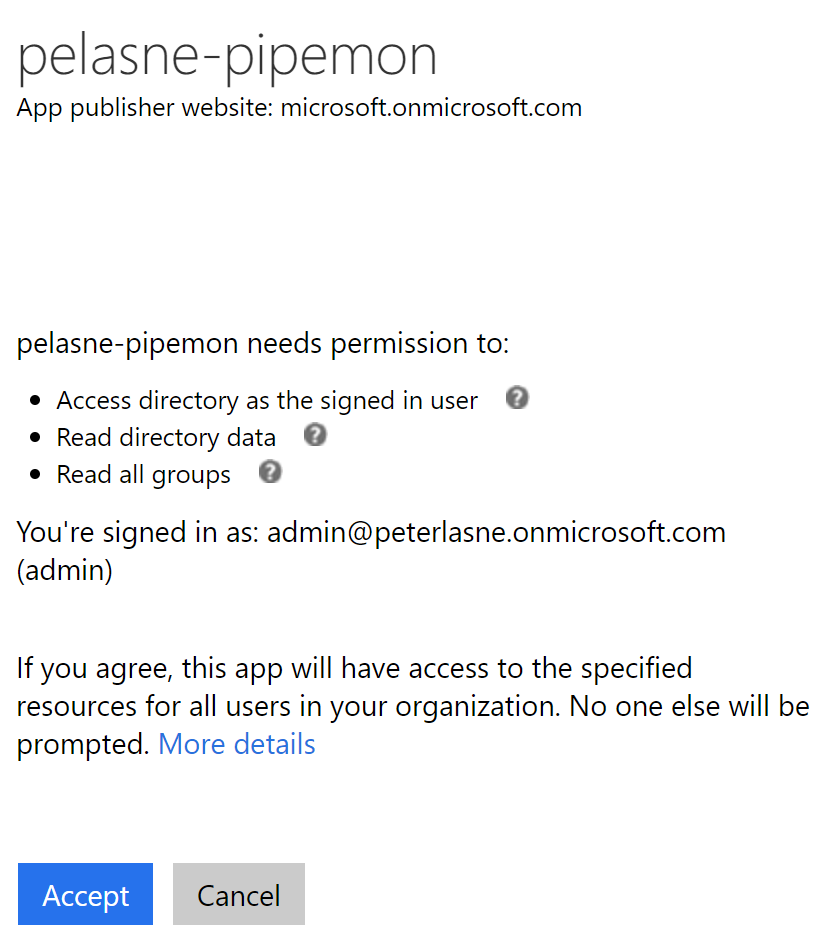
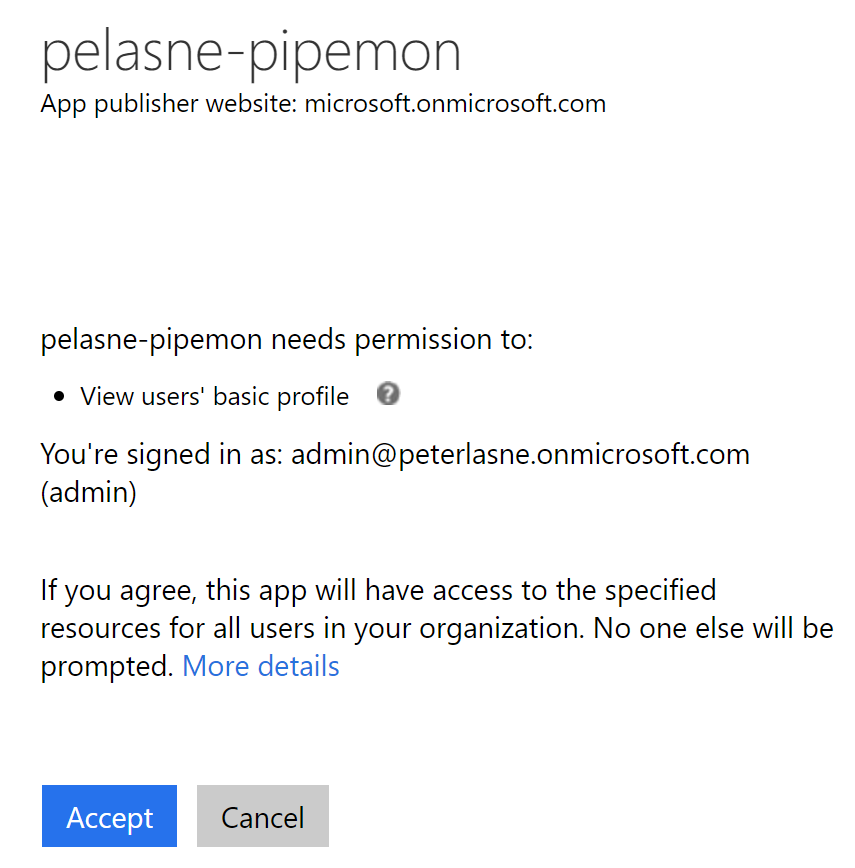
final

diff --git a/Monitor/client/default.html b/Monitor/client/default.html
@@ -5,7 +5,9 @@
     <body>
 
         <div>If you are a user, please <a href="/login">sign-in</a> to view your pipelines.</div>
+        <!--
         <div>If you are an administrator consenting to use this application, click <a href="/consent">here</a>.</div>
+        -->
 
     </body>
 </html>

diff --git a/Monitor/README.md b/Monitor/README.md
@@ -72,11 +72,9 @@ This should be the URL that is hosting the server.js file included in this packa
 
 10. Click on "Required permissions", delete any existing permissions, add the following permissions, then "Save":
 
-  * Access directory as the signed in user
-  * Read directory data
-  * Read all groups
+  * View users' basic profile
 
-These are the permissions that the customer must consent to in order 
+This specific right doesn't not require administrative consent, so each individual user can simply consent to use the application.
 
 ![grants](docs/grants.png)
 
@@ -145,10 +143,16 @@ An example configuration looks like this:
 }
 ```
 
-## Configuring for external users
+## Running the application
 
-* app id
-* generate keys
-* permissions (graph)
-* reply URLs
-* consent
+To startup the application you can type:
+
+* sudo node server.js
+
+To keep the application running, you should install forever:
+
+* npm install -g forever
+
+And then you can run the application like this:
+
+* sudo forever start server.js
